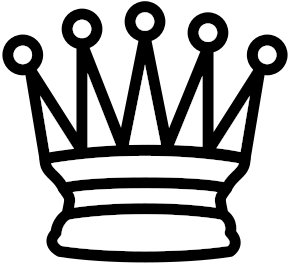
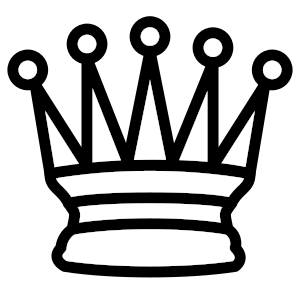
added piece pngs

diff --git a/js/scripts.js b/js/scripts.js
@@ -3,6 +3,8 @@ const _darkCol = '#a97a65';
 const _squareSize = 80;
 let _board;
 let _ctx;
+let _blackPieces;
+let _whitePieces;
 
 class Board {
   constructor(copyBoard) {
@@ -63,34 +65,22 @@ class Square {
   get textColor() { return this.isLightSquare ? _darkCol : _lightCol; }
   get xPos() { return this.file * _squareSize; }
   get yPos() { return (_squareSize * 7) - (this.rank * _squareSize); }
-  get symbol() {
-    let sym = '';
+  get img() {
+    if (!this.piece) return null;
+    const set = this.piece < 16 ? _whitePieces : _blackPieces;
     let piece = this.piece;
     while (piece >= 8) {
       piece -= 8;
     }
     switch (piece) {
-      case Piece.King:
-        sym = 'k';
-        break;
-      case Piece.Pawn:
-        sym = 'p';
-        break;
-      case Piece.Knight:
-        sym = 'n';
-        break;
-      case Piece.Bishop:
-        sym = 'b';
-        break;
-      case Piece.Rook:
-        sym = 'r';
-        break;
-      case Piece.Queen:
-        sym = 'q';
-        break;
+      case Piece.King: return set.King;
+      case Piece.Pawn: return set.Pawn;
+      case Piece.Knight: return set.Knight;
+      case Piece.Bishop: return set.Bishop;
+      case Piece.Rook: return set.Rook;
+      case Piece.Queen: return set.Queen;
+      default: return null;
     }
-    if (sym === '') return sym;
-    return (this.piece < 16) ? sym.toUpperCase() : sym;
   }
 
   draw = () => {
@@ -129,11 +119,11 @@ class Square {
   };
 
   drawPiece = () => {
-    const x = this.xPos + proportion(0.3);
-    const y = this.yPos + _squareSize - proportion(0.3);
-    _ctx.fillStyle = this.piece >= 16 ? '#000000' : '#ffffff';
-    _ctx.font = `400 ${proportion(0.6)}px sans-serif`;
-    _ctx.fillText(this.symbol, x, y);
+    const offset = proportion(0.1);
+    const size = proportion(0.8);
+    const x = this.xPos + offset;
+    const y = this.yPos + offset;
+    _ctx.drawImage(this.img, x, y, size, size);
   };
 }
 
@@ -155,6 +145,22 @@ const proportion = (ratio) => Math.floor(_squareSize * ratio);
 const isDigit = (str) => /^\d+$/.test(str);
 
 function onLoad() {
+  _blackPieces = {
+    Queen: document.getElementById('black-queen'),
+    King: document.getElementById('black-king'),
+    Rook: document.getElementById('black-rook'),
+    Knight: document.getElementById('black-knight'),
+    Bishop: document.getElementById('black-bishop'),
+    Pawn: document.getElementById('black-pawn'),
+  };
+  _whitePieces = {
+    Queen: document.getElementById('white-queen'),
+    King: document.getElementById('white-king'),
+    Rook: document.getElementById('white-rook'),
+    Knight: document.getElementById('white-knight'),
+    Bishop: document.getElementById('white-bishop'),
+    Pawn: document.getElementById('white-pawn'),
+  };
   const canvas = document.getElementById('canvas');
   canvas.width = _squareSize * 8;
   canvas.height = _squareSize * 8;

diff --git a/index.html b/index.html
@@ -24,8 +24,19 @@
     </main>
     <footer>&copy; Copyright 2021</footer>
   </div>
-  <img class="sprite" id="pieces" src="./images/pieces-sprite.png" />
+  <img class="sprite" id="black-queen" src="./images/black-queen.png" />
+  <img class="sprite" id="black-king" src="./images/black-king.png" />
+  <img class="sprite" id="black-rook" src="./images/black-rook.png" />
+  <img class="sprite" id="black-knight" src="./images/black-knight.png" />
+  <img class="sprite" id="black-bishop" src="./images/black-bishop.png" />
+  <img class="sprite" id="black-pawn" src="./images/black-pawn.png" />
   <img class="sprite" id="white-queen" src="./images/white-queen.png" />
+  <img class="sprite" id="white-king" src="./images/white-king.png" />
+  <img class="sprite" id="white-rook" src="./images/white-rook.png" />
+  <img class="sprite" id="white-knight" src="./images/white-knight.png" />
+  <img class="sprite" id="white-bishop" src="./images/white-bishop.png" />
+  <img class="sprite" id="white-pawn" src="./images/white-pawn.png" />
+  
 </body>
 
 </html>
